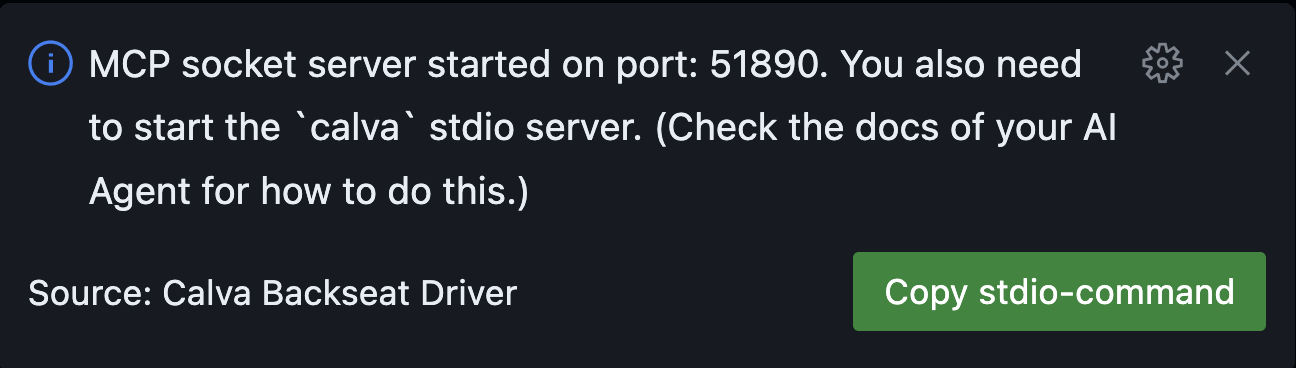
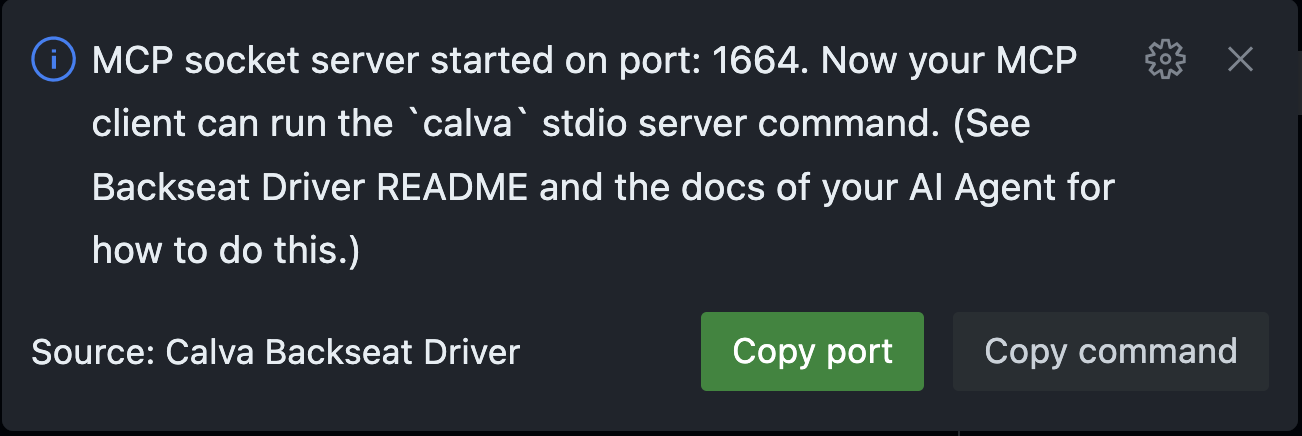
Update README with new MCP server config strategy

diff --git a/README.md b/README.md
@@ -79,17 +79,26 @@ The Backset Driver extension provides this as defailts instructions, in case you
 
 ### Configuration (if using MCP Server)
 
-Backseat Driver is a per-project MCP server, so should be configured on the project level. (If the assistant you are using allows it. Windsurf doesn't.)
-
-The MCP server is running as a plain socket server in the VS Code Extension Host, writing out a port file when it starts. Then the MCP client needs to start a `stdio` relay/proxy/wrapper thar it will talk to. The wrapper script takes the port file as an argument. Because of these and other reasons, there will be one Calva Backseat Driver per workspace, and the port file will be written to the `.calva` directory in the workspace root.
+The MCP server is running as a plain socket server in the VS Code Extension Host, writing out a port file when it starts. Then the MCP client needs to start a `stdio` relay/proxy/wrapper. The wrapper script takes the port or a port file as an argument. Because of these and other reasons, there will be one Calva Backseat Driver per workspace, and the port file will be written to the `.calva` directory in the workspace root.
+* The default port for the socket server is `1664`. If that is not available, a random, high, available port number will be used.
+* You can configure the try-first port to something else via the setting `calva-backseat-driver.mcpSocketServerPort`. Use `0` to use a random, high, available port number.
 
 1. Open your project
 1. Start the Calva MCP socket server
    * This will create a port file: `${workspaceFolder}/.calva/mcp-server/port`
-   * When the server is started, a confirmation dialog will be shown. This dialog has a button which lets you copy the command to start the stdio wrapper to the clipboard.
+   * When the server is started, a confirmation dialog will be shown. This dialog has a button which lets you copy the port number, or the command for starting the stdio wrapper, to the clipboard.
 
      ![MCP Server Started message with Copy Command button](assets/howto/mcp-copy-stdio-command.png)
 1. Add the MCP server config (will vary depending on MCP Client)
+
+#### Workspace/project level config
+
+Backseat Driver is a per-project MCP server, so should be configured on the project level if the assistant you are using allows it.
+
+* **If you can use project/workspace level configuration**, then it is best to use the **port file** as the argument to the stdio script. If your MCP client doesn't support project level
+* **If your MCP client does not support project/workspace configuration**, then you can still configure Backseat Driver to use different socket server ports for different projects. And then configure your MCP client with the appropriate port number for your session.
+
+I am sorry that this is a bit messy. It is obvious that MCP is a bit new, and that project level MCP servers may not have been considered when creating MCP. I have tried to understand and navigate the limitiations and to provide configurability/Ux to the best of my understanding and ability.
 
 #### Cursor configuration
 
@@ -119,15 +128,37 @@ You may want to check the [Cursor MCP docs](https://docs.cursor.com/chat/tools#m
 [Windsurf](https://windsurf.com/) can use the Backseat Driver via its MCP server. However, it is a bit clunky, to say the least. Windsurf doesn't support workspace configurations for MCP servers, so they are only global. This means:
 
 * You can in practice only have one Backseat Driver backed project
-* You must use absolute paths for the stdio command port file argument
+* It's probably best to use the port number as the argument for the stdio command
+* If you use the port file as the argument, it must be an absolute path (afaik)
 
-Cursor's configuration file has the same shape as Cursor's, located at: `~/.codeium/windsurf/mcp_config.json` (at least on my machine).
+Windsurf's configuration file has the same shape as Cursor's, located at: `~/.codeium/windsurf/mcp_config.json` (at least on my machine).
 
 The Windsurf AI assistant doesn't know about its MCP configurations and will keep trying to create MCP configs for CoPilot. Which is silly, because it won't work for Windsurf, and CoPilot doesn't need it.
 
 **Clunk**: At startup, even with the MCP server set to auto-start, Windsurf often refreshes its MCP servers quicker than the MCP server starts. You may need to refresh the tools in Windsurf. However, Windsurf doesn't seem to handle refreshing more than once well. It just keeps spinning the refresh button.
 
 **IMPORTANT**: Windsurf uses MCP tools without checking with the user by default. This is fine for 3 out of 4 of the Backseat Driver tools, but for the REPL tool it is less ideal. I think some Windsurf user should report this non-compliance with MCP as an issue.
+
+
+#### Claude desktop
+
+Claude Desktop doesn't run in VS Code, and doesn't have any other project/workspace concept, so it is the global config that you will use. The app has a button for finding its configuration file. Configuring to use the port for the stdio command is probably easiest.
+
+```json
+{
+  "mcpServers": {
+    "backseat-driver": {
+      "command": "node",
+      "args": [
+        "<absolute path to wrapper script>",
+        "1664"
+      ]
+    }
+  }
+}
+```
+
+There doesn't seem to be a way to refresh/reload the server info, so if you started the Backseat Driver MCP server after Claude, you probably neeed to restart Claude to for the refresh to happen.
 
 #### Other MCP client?
 
